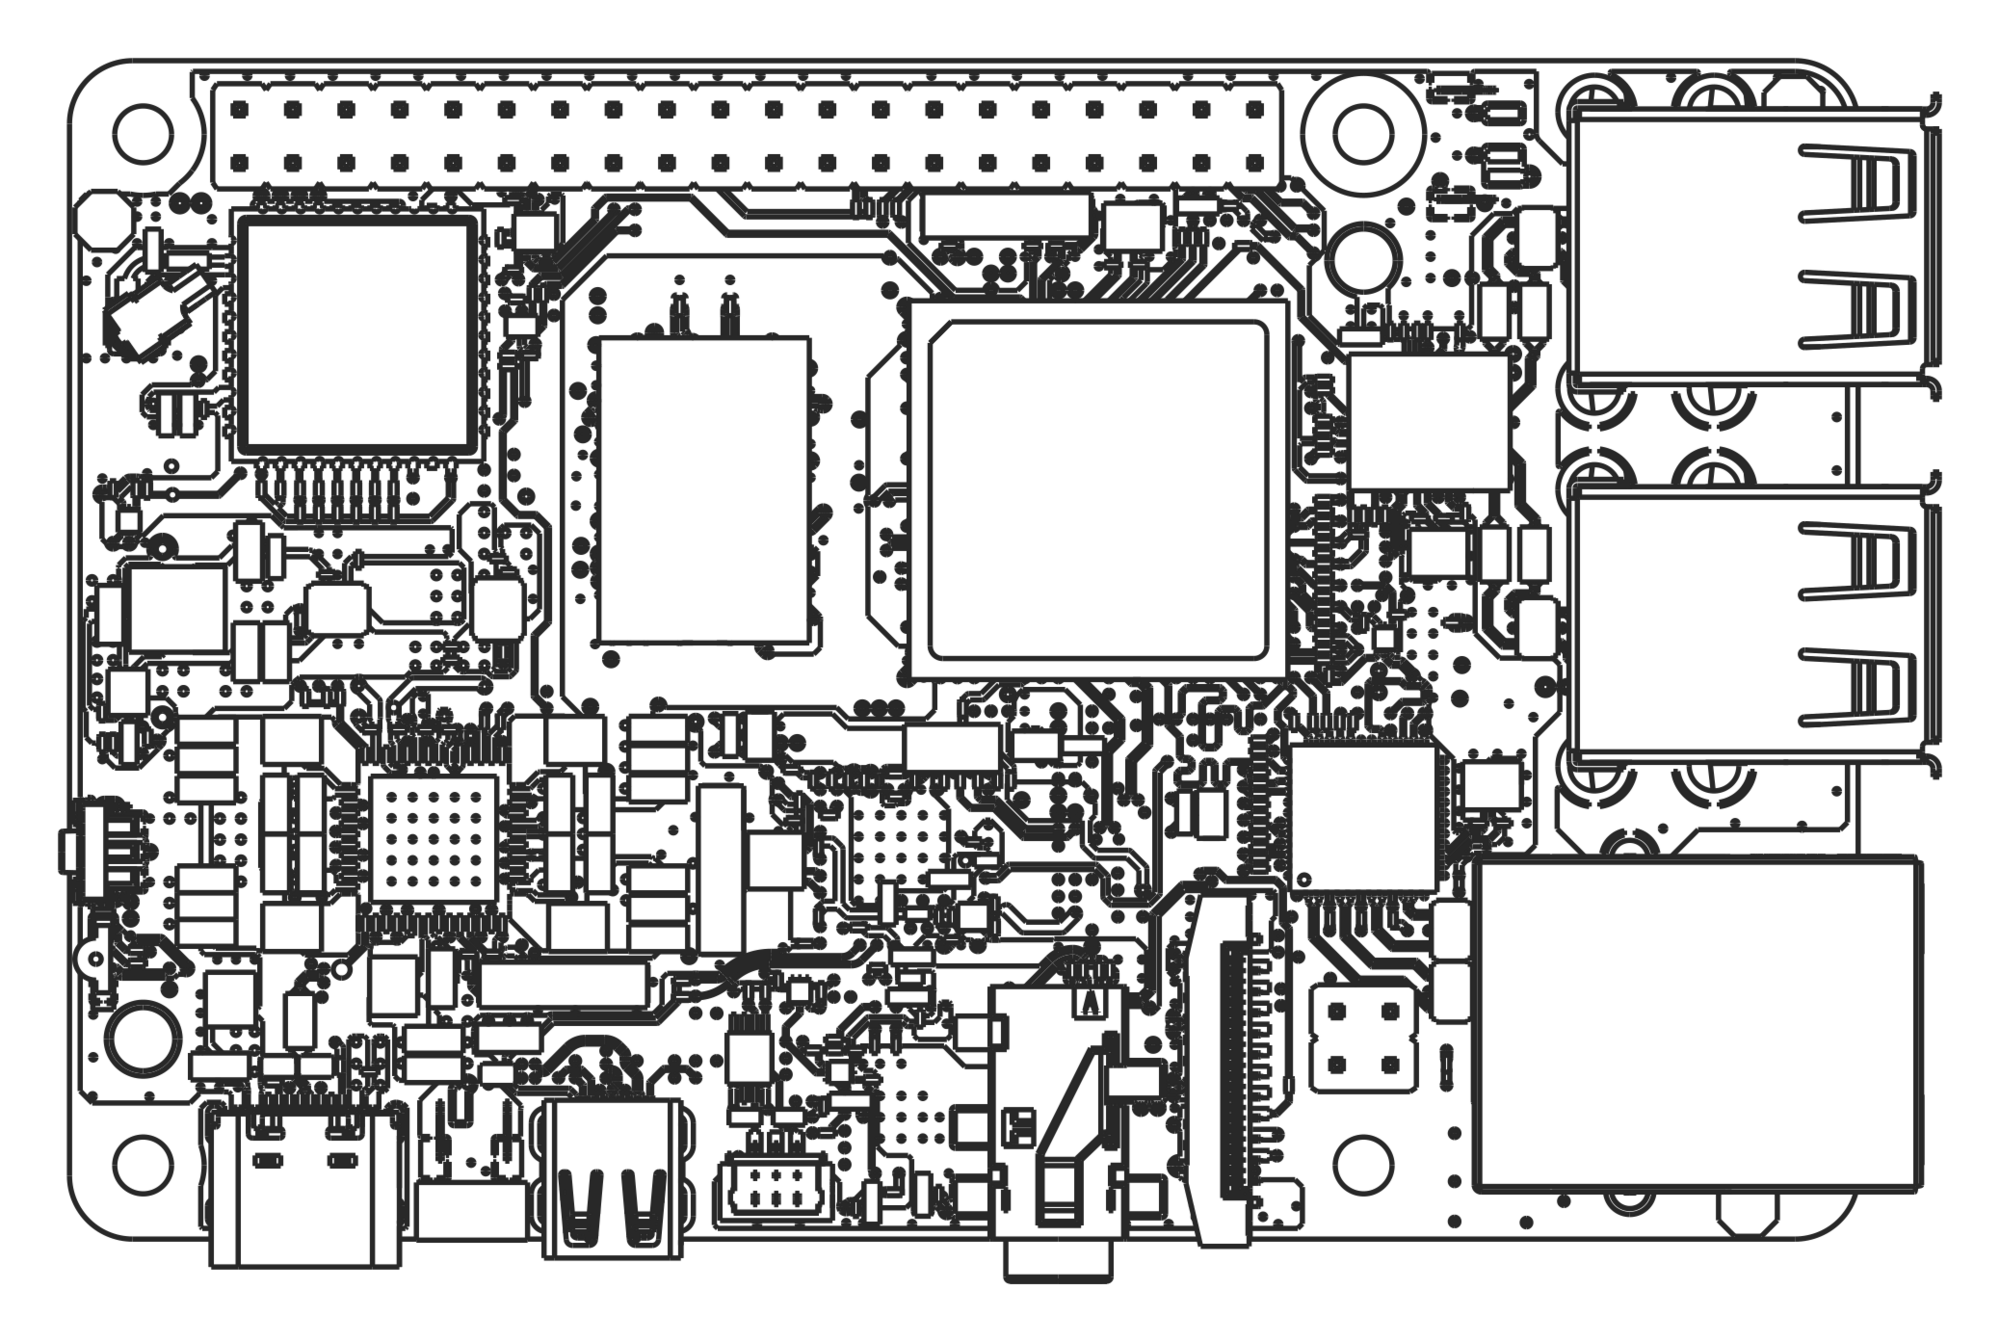
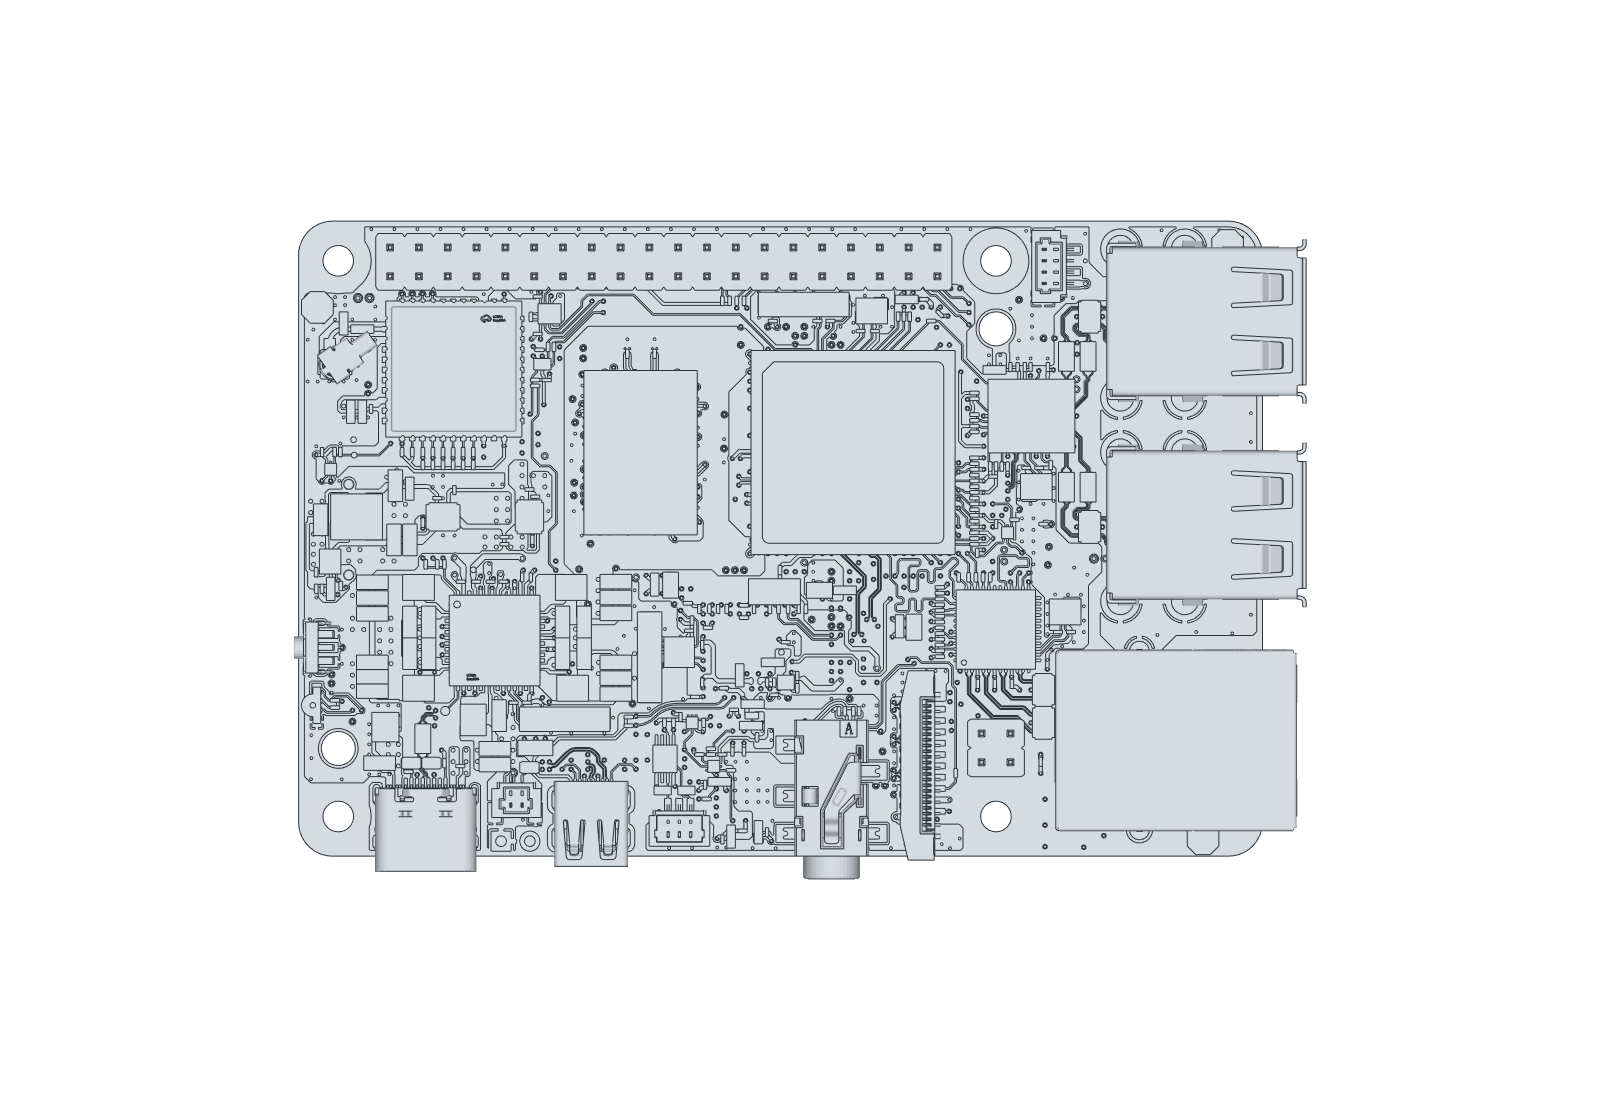
fix(docs): refresh Mo 62A model and unify STEP archives (#51)
Apply the reviewed changes.

Validation: all required pull request checks passed.

diff --git a/hardware/products/mo62a/mechanical/mechanical.en-US.md b/hardware/products/mo62a/mechanical/mechanical.en-US.md
@@ -13,13 +13,13 @@ Use the 2D drawings for dimensions and the STEP assembly for component and conne
 |---|---|---|
 | Mechanical drawing (2D) | V1.0 | [PDF](/downloads/hardware/mo62a/Mo62A_mechanical_drawing_V1.0-20260409.pdf) |
 | Mechanical drawing (DXF) | V1.1 | [DXF (ZIP)](/downloads/hardware/mo62a/Mo62A_2d_dxf_V1.1-20260504.zip) |
-| 3D model (STEP) | V1.0 | [STEP (ZIP)](/downloads/hardware/mo62a/Mo62A_3d_model_V1.0-20260409.stp.zip) |
+| 3D model (STEP) | V1.1 | [STEP (ZIP)](/downloads/hardware/mo62a/Mo62A_3d_model_V1.1-20261030.stp.zip) |
 | Component placement | V1.1 | [PDF](/downloads/hardware/mo62a/Mo62A_component_placement_V1.1-20260504.pdf) |
 | Datasheet | V1.5 | [PDF](/downloads/hardware/mo62a/Mo62A_datasheet_V1.5-20261026.pdf) |
 
 Verify downloads against [SHA-256 checksums](/downloads/hardware/mo62a/SHA256SUMS.txt).
 
-The DXF ZIP contains top and bottom PCB layouts in millimetres (DXF R12): outline, pads, silkscreen, reference designators and drill holes. The STEP ZIP is 23.4 MiB and extracts to the 153.9 MiB `MO_62A_MB_PCBA_V1_ASM.stp`.
+The DXF ZIP contains top and bottom PCB layouts in millimetres (DXF R12): outline, pads, silkscreen, reference designators and drill holes. The STEP ZIP is 24.1 MiB and extracts to the 158.1 MiB `Mo_62A_P_MB_V11.stp`.
 
 ## Dimensions and mounting {#published-dimensions}
 
@@ -39,12 +39,12 @@ The source explicitly states that all dimensions are approximate, for reference 
 
 ## Assembly model and previews
 
-The assembly identifier is `MO_62A_MB_PCBA_V1_ASM`. Its STEP header records a Creo export timestamp of April 29, 2026; this is an export timestamp, not a hardware release date or proof that the model matches every shipped revision. Personal author metadata has been removed; the geometry data is unchanged.
+The V1.1 assembly model was supplied on October 30, 2026 as `Mo_62A_P_MB_V11.stp`. Its STEP header records a Creo export timestamp of October 30, 2026 and retains the internal identifier `0_MO_62A_MB_PCBA_V1_ASM`. The published version follows the supplied V1.1 model, not that internal name. The STEP file is packaged without modifying its contents.
 
 :::warning[Confirm the assembly revision before designing around it]
 The downloadable model is a nominal assembly reference, not a toleranced manufacturing drawing. It does not establish an approved enclosure fit, fastening specification, keep-out volume or production release. Confirm the board revision and fitted components with InHand, and check a physical sample before enclosure tooling. A model's `V1` identifier must not be assumed to mean the same revision as a schematic filename.
 
-OpenCascade imported and rendered this file, but its whole-model topology validity check did not pass. The download retains the supplied geometry without automatic repair. Validate the import in your CAD application before editing or Boolean operations; request a validated model for production work. Successful display and a matching checksum do not establish geometric validity.
+The supplied V1.1 file imported successfully in OpenCascade and passed its whole-model topology validity check. The download retains the supplied geometry without automatic repair. Check the import in your own CAD application before editing or Boolean operations; this software check does not validate physical clearances or enclosure fit.
 :::
 
 ### Verify and open the model {#1-download-and-check-the-files}
@@ -52,7 +52,7 @@ OpenCascade imported and rendered this file, but its whole-model topology validi
 Save the ZIP and `SHA256SUMS.txt` in a new directory, then run on a Linux workstation:
 
 ```bash
-unzip Mo62A_3d_model_V1.0-20260409.stp.zip
+unzip Mo62A_3d_model_V1.1-20261030.stp.zip
 sha256sum -c SHA256SUMS.txt --ignore-missing
 ```
 

diff --git a/hardware/products/mo68a/hardware-development/mechanical.en-US.md b/hardware/products/mo68a/hardware-development/mechanical.en-US.md
@@ -12,13 +12,13 @@ Use the 2D drawings for dimensions and the STEP assembly for component and conne
 |---|---|---|
 | Mechanical drawing (2D) | V1.1 | [PDF](/downloads/hardware/mo68a/Mo68A_mechanical_drawing_V1.1-20261029.pdf) |
 | Mechanical drawing (DXF) | V1.1 | [DXF](/downloads/hardware/mo68a/Mo68A_2d_dxf_V1.1-20261029.dxf) |
-| 3D model (STEP) | V1.1 | [STEP (RAR)](/downloads/hardware/mo68a/Mo68A_3d_model_V1.1-20261029.stp.rar) |
+| 3D model (STEP) | V1.1 | [STEP (ZIP)](/downloads/hardware/mo68a/Mo68A_3d_model_V1.1-20261029.stp.zip) |
 | Component placement | V1.1 | [PDF](/downloads/hardware/mo68a/Mo68A_component_placement_V1.1-20260506.pdf) |
 | Datasheet | V1.1 | [PDF](/downloads/hardware/mo68a/Mo68A_datasheet_V1.1-20261026.pdf) |
 
 Verify downloads against [SHA-256 checksums](/downloads/hardware/mo68a/SHA256SUMS.txt).
 
-The mechanical PDF, DXF and STEP archive were supplied by hardware engineering on 29 October 2026 and are published without modifying their contents. Extract the RAR archive with a compatible tool to obtain `MO_68a_pcb_mb_v1_1.stp`.
+The mechanical PDF, DXF and STEP model were supplied by hardware engineering on 29 October 2026. The STEP model is repackaged as ZIP without changing the model contents; the PDF and DXF are unchanged. The STEP ZIP is 17.3 MiB and extracts to the 117.3 MiB `MO_68a_pcb_mb_v1_1.stp`.
 
 ## Dimensions and mounting
 
@@ -38,14 +38,14 @@ The current archive contains the V1.1 STEP assembly model. The archive passed an
 
 ### Verify and open the model
 
-Save the STEP RAR and checksum file in the same directory. On a Linux workstation with a compatible RAR extractor:
+Save the ZIP and `SHA256SUMS.txt` in a new directory, then run on a Linux workstation:
 
 ```bash
+unzip Mo68A_3d_model_V1.1-20261029.stp.zip
 sha256sum -c SHA256SUMS.txt --ignore-missing
-unrar x Mo68A_3d_model_V1.1-20261029.stp.rar
 ```
 
-The archive must report `OK`. The published checksum list verifies the delivered archive; it does not list a separate hash for the extracted STEP file. On Windows, use `Get-FileHash -Algorithm SHA256` and compare the archive hash before extraction. Open the `.stp` in a STEP-capable CAD application and confirm millimetres as the unit. Inspect the model there for the required top and isometric views.
+Both the ZIP and the extracted STEP file must report `OK`. On Windows, use `Get-FileHash -Algorithm SHA256` and compare each result with the downloaded checksum file. Open the `.stp` in a STEP-capable CAD application and confirm millimetres as the unit. Inspect the model there for the required top and isometric views.
 
 ## Enclosure and cable clearance
 

diff --git a/hardware/products/mo62a/revisions/hardware-revisions.en-US.md b/hardware/products/mo62a/revisions/hardware-revisions.en-US.md
@@ -37,7 +37,7 @@ Compare the identifiers below with the exact PDF you downloaded. If a filename, 
 |---|---|---|
 | Datasheet | V1.5 / 2026-10-26 | Product document revision |
 | Mechanical drawing (2D) | V1.0 / 2026-04-09 | File identifier; confirm the PCB/assembly match |
-| 3D model (STEP) | V1.0 / 2026-04-09 | File identifier; confirm the PCB/assembly match |
+| 3D model (STEP) | V1.1 / supplied 2026-10-30 | Updated assembly model; confirm the physical PCB/assembly match |
 | Schematics | V1.1 / 2026-05-04 | File identifier; confirm the PCB/assembly match |
 | Component placement | V1.1 / 2026-05-04 | File identifier; confirm the PCB/assembly match |
 | Mechanical drawing (DXF) | V1.1 / 2026-05-04 | File identifier; confirm the PCB/assembly match |

diff --git a/hardware/products/mo68a/hardware-development/hardware-revisions.en-US.md b/hardware/products/mo68a/hardware-development/hardware-revisions.en-US.md
@@ -23,7 +23,7 @@ Each download retains its own version. A common product name does not establish 
 | Component placement | V1.1 / 2026-05-06 | PCB layout drawing |
 | Mechanical DXF | V1.1 / supplied 2026-10-29 | Engineering drawing with dimensions and side views |
 | Mechanical PDF | V1.1 / 2026-10-29 | Original engineering PDF; title block specifies V1.1 and millimetres |
-| Assembly STEP | V1.1 / supplied 2026-10-29 | STEP file in the supplied RAR package |
+| Assembly STEP | V1.1 / supplied 2026-10-29 | Supplied STEP file, repackaged as ZIP without changing its contents |
 | 40-pin pinout | V1.0 / 2026-10-28 | Derived from User manual V1.0 §14; J11 signal map checked against schematic V1.1 |
 
 ## Change history and limitations
